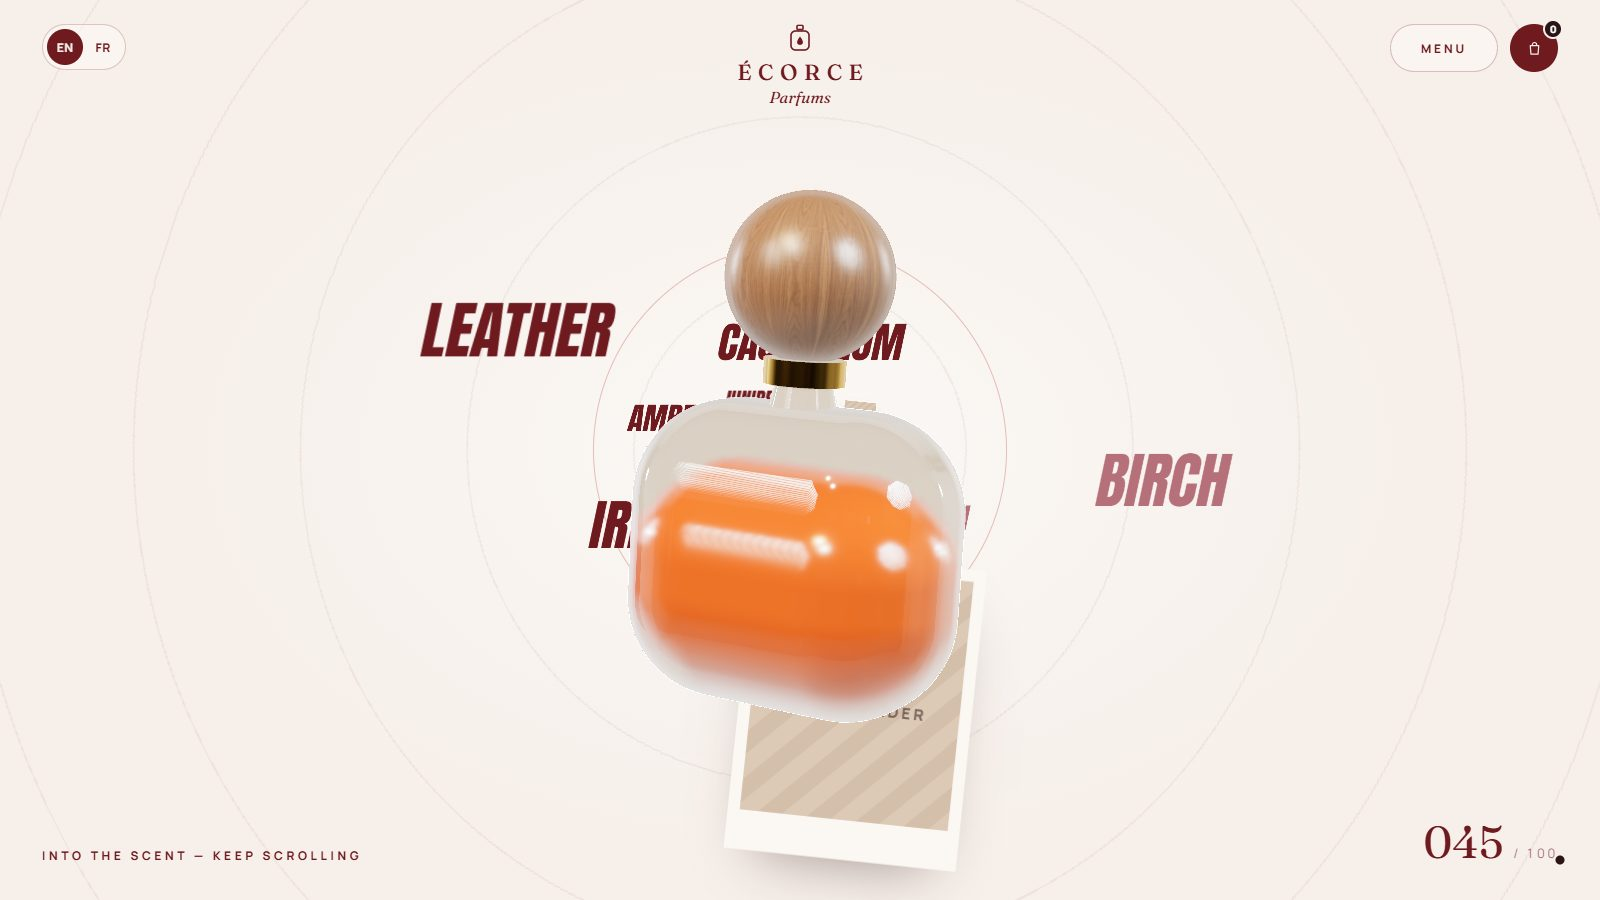
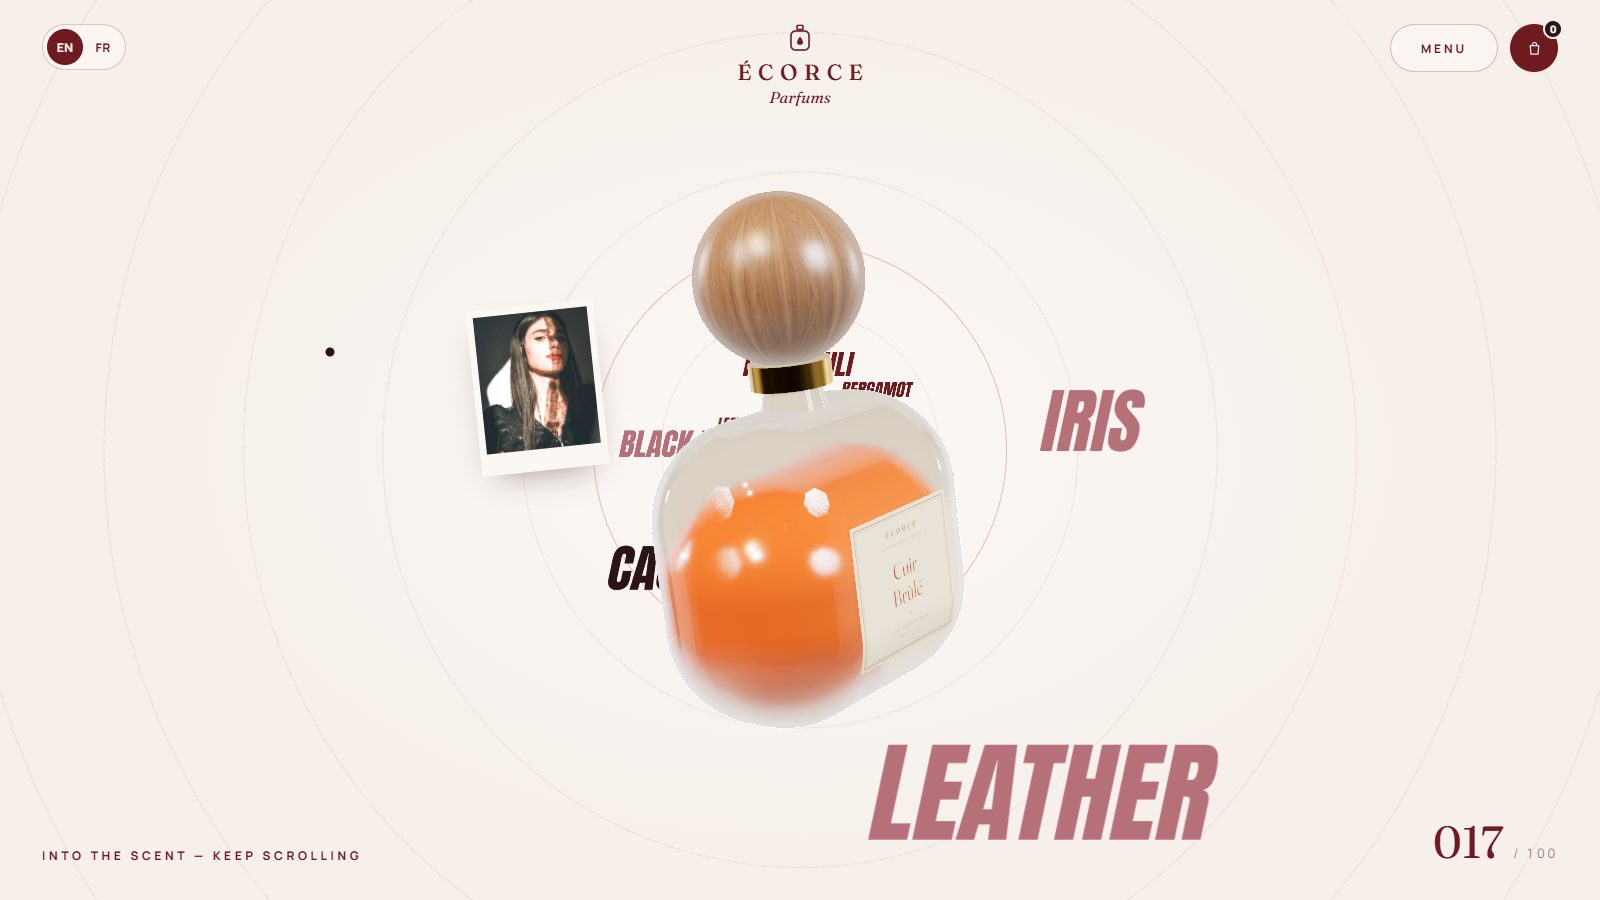
Showcase: real campaign photos, working menu, updated contact
Refreshes the hero, tunnel, composition, Worn & wanted and contact screenshots
now that every photo slot shows a free-licence (CC0 / public domain) photo and
the contact email is set, adds a screenshot of the new full-screen menu, and
updates the README, how-it-works and how-it-builds docs to match.

Changed region(s): [[0.25, 0.1867, 0.7812, 0.9956], [0.625, 0.4356, 0.7812, 0.56], [0.875, 0.9022, 0.9375, 0.9644]]

diff --git a/README.md b/README.md
@@ -61,8 +61,9 @@ it follows your cursor, flies into its product page, turns, docks, dives through
 | 🎡 **Other extraits** | A full-width concave arc of the other nine bottles; the hero bottle docks into a dashed “Yours” card. Click a card to fly to that scent |
 | 🌀 **Into the scent** | A 3D tunnel of note words the bottle flies through |
 | 🎼 **Composition** | Top, heart and base notes take turns while every note orbits the bottle on a ring of text |
-| 📸 **Worn & wanted** | A draggable photo arc with filters (campaign photos are placeholders) |
+| 📸 **Worn & wanted** | A draggable arc of campaign photos with Atelier / Campaign / Night / Skin filters |
 | 🎨 **Ten moods → contact → footer** | A colour-study gallery, a dark contact section with cursor mist, a magnetic orb that sprays on click, copy-to-clipboard email, and a giant wordmark |
+| ☰ **Menu** | A full-screen menu: the ten scents (each flies its bottle to its page), every section of the page, and contact |
 | 📱 **Phones** | Phone layouts for every section, touch swipe / tap / hold, lighter 3D (lower pixel ratio, lighter refraction, smaller textures) |
 
 ## 🖼 Screenshots
@@ -89,7 +90,8 @@ it follows your cursor, flies into its product page, turns, docks, dives through
     <td><img src="docs/screenshots/10-contact.jpg" alt="Contact: cursor mist and the spray orb" /></td>
   </tr>
   <tr>
-    <td colspan="2"><img src="docs/screenshots/11-footer.jpg" alt="Giant wordmark footer" /></td>
+    <td><img src="docs/screenshots/11-footer.jpg" alt="Giant wordmark footer" /></td>
+    <td><img src="docs/screenshots/13-menu.jpg" alt="Full-screen menu: the collection, page sections and contact" /></td>
   </tr>
 </table>
 
@@ -130,4 +132,5 @@ In one line: Next.js (App Router, TypeScript) statically generates the home page
 
 Built from the public design specs in [alagappan567/perfume-ecorce-showcase](https://github.com/alagappan567/perfume-ecorce-showcase).
 Studio HDRI and the plaster, walnut and marble textures: [Poly Haven](https://polyhaven.com) (CC0).
+Campaign photos: free-licence stock (CC0 / public domain) from StockSnap, rawpixel and Flickr, found via [Openverse](https://openverse.org).
 Fonts: Fraunces, Manrope and Anton (SIL OFL). ÉCORCE is a fictional brand; all commerce is dummy UI.

diff --git a/docs/HOW-IT-BUILDS.md b/docs/HOW-IT-BUILDS.md
@@ -9,7 +9,7 @@
 | Motion | GSAP + ScrollTrigger, Lenis smooth scroll — all on one shared ticker |
 | State | Zustand for page mode / selection; plain mutable objects for per-frame data |
 | Content | All copy and product data (10 scents, notes, moods, bottle shapes) in one data file |
-| Assets | Poly Haven CC0 HDRI + plaster / walnut / marble textures; Fraunces, Manrope, Anton via `next/font` |
+| Assets | Poly Haven CC0 HDRI + plaster / walnut / marble textures; CC0 / public-domain campaign photos; Fraunces, Manrope, Anton via `next/font` |
 | Hosting | Vercel |
 
 ## Build and deploy
@@ -41,6 +41,7 @@ continuity, docking accuracy), on an Intel UHD laptop GPU.
 | 8 | Still life | Travertine plinth, leaves, gardenia, cloves, plum, warm sun with real shadows |
 | 9 | PBR textures | Poly Haven plaster / walnut / marble, 2K desktop / 1K phone |
 | 10 | Phone pass | Device tier, phone layouts for every section, touch, real-phone check over Wi-Fi |
+| 11 | Photos + menu | Free-licence campaign photos in every photo slot, a working full-screen menu, real contact email |
 
 ## Performance fixes that mattered
 
